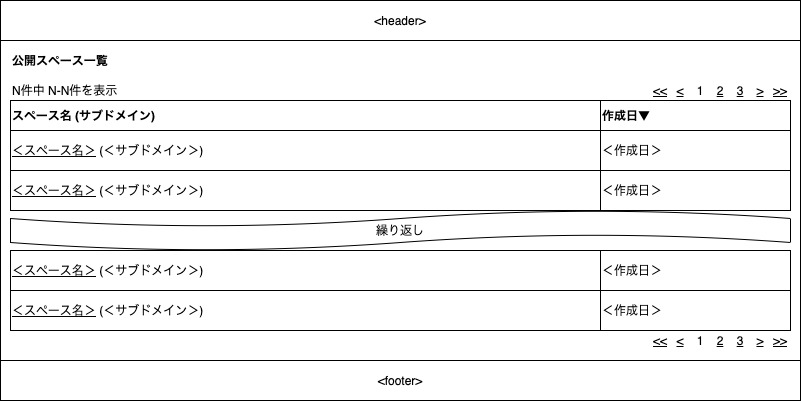
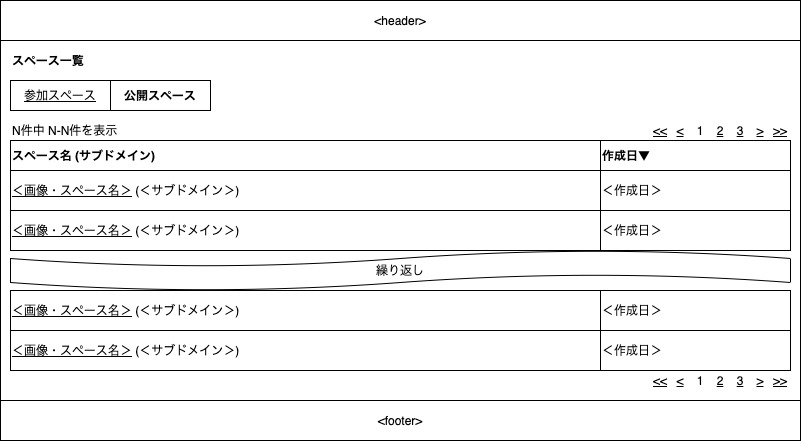
origin#336 公開スペース・テスト作成、参加スペース修正

diff --git a/spec/requests/spaces/index_public_spec.rb b/spec/requests/spaces/index_public_spec.rb
@@ -1,5 +1,237 @@
 require 'rails_helper'
 
 RSpec.describe 'Spaces', type: :request do
-  # TODO: Spec
+  # GET /spaces/public（ベースドメイン） 公開スペース一覧
+  # GET /spaces/public.json（ベースドメイン） 公開スペース一覧API
+  # 前提条件
+  #   なし
+  # テストパターン
+  #   未ログイン, ログイン中, ログイン中（削除予約済み） → データ＆状態作成
+  #   ベースドメイン, 存在するサブドメイン, 存在しないサブドメイン → 事前にデータ作成
+  describe 'GET /index_public' do
+    # テスト内容
+    shared_examples_for 'ToOK' do
+      it '成功ステータス' do
+        get public_spaces_path, headers: headers
+        expect(response).to be_successful
+      end
+      it '(json)成功ステータス' do
+        get public_spaces_path(format: :json), headers: headers
+        expect(response).to be_successful
+      end
+    end
+    shared_examples_for 'ToBase' do |alert, notice, error|
+      it 'ベースドメインにリダイレクト' do
+        get public_spaces_path, headers: headers
+        expect(response).to redirect_to("//#{Settings['base_domain']}#{public_spaces_path}")
+        expect(flash[:alert]).to alert.present? ? eq(I18n.t(alert)) : be_nil
+        expect(flash[:notice]).to notice.present? ? eq(I18n.t(notice)) : be_nil
+      end
+      it '(json)存在しないエラー' do
+        get public_spaces_path(format: :json), headers: headers
+        expect(response).to be_not_found
+        message = response.body.present? ? JSON.parse(response.body)['error'] : nil
+        expect(message).to error.present? ? eq(I18n.t(error)) : be_nil
+      end
+    end
+
+    # テストケース
+    shared_examples_for '[*]ベースドメイン' do
+      let!(:headers) { BASE_HEADER }
+      it_behaves_like 'ToOK'
+    end
+    shared_examples_for '[*]存在するサブドメイン' do
+      let!(:headers) { @space_header }
+      it_behaves_like 'ToBase', nil, nil, 'errors.messages.domain_error'
+    end
+    shared_examples_for '[*]存在しないサブドメイン' do
+      let!(:headers) { NOT_SPACE_HEADER }
+      it_behaves_like 'ToBase', nil, nil, 'errors.messages.domain_error'
+    end
+
+    context '未ログイン' do
+      it_behaves_like '[*]ベースドメイン'
+      it_behaves_like '[*]存在するサブドメイン'
+      it_behaves_like '[*]存在しないサブドメイン'
+    end
+    context 'ログイン中' do
+      include_context 'ログイン処理'
+      it_behaves_like '[*]ベースドメイン'
+      it_behaves_like '[*]存在するサブドメイン'
+      it_behaves_like '[*]存在しないサブドメイン'
+    end
+    context 'ログイン中（削除予約済み）' do
+      include_context 'ログイン処理', true
+      it_behaves_like '[*]ベースドメイン'
+      it_behaves_like '[*]存在するサブドメイン'
+      it_behaves_like '[*]存在しないサブドメイン'
+    end
+  end
+
+  # 公開スペース
+  # 前提条件
+  #   ベースドメイン, ログイン中/削除予約済み
+  # テストパターン
+  #   ログイン中, ログイン中（削除予約済み） → データ＆状態作成
+  #   公開スペース: ない, 最大表示数と同じ, 最大表示数より多い → データ作成
+  describe 'GET /index @spaces' do
+    let!(:headers) { BASE_HEADER }
+    include_context 'スペース作成', 1 # Tips: 非公開スペース
+
+    # テスト内容
+    shared_examples_for 'ページ情報' do |page|
+      it '(json)全件数が一致する' do
+        get public_spaces_path(page: page, format: :json), headers: headers
+        expect(JSON.parse(response.body)['public_space']['total_count']).to eq(@create_spaces.count)
+      end
+      it '(json)現在ページが一致する' do
+        get public_spaces_path(page: page, format: :json), headers: headers
+        expect(JSON.parse(response.body)['public_space']['current_page']).to eq(page)
+      end
+      it '(json)全ページ数が一致する' do
+        get public_spaces_path(page: page, format: :json), headers: headers
+        expect(JSON.parse(response.body)['public_space']['total_pages']).to eq((@create_spaces.count - 1).div(Settings['default_spaces_limit']) + 1)
+      end
+      it '(json)最大表示件数が一致する' do
+        get public_spaces_path(page: page, format: :json), headers: headers
+        expect(JSON.parse(response.body)['public_space']['limit_value']).to eq(Settings['default_spaces_limit'])
+      end
+    end
+
+    shared_examples_for 'ページネーション表示' do |page, link_page|
+      it 'パスが含まれる' do
+        get public_spaces_path(page: page), headers: headers
+        if link_page == 1
+          expect(response.body).to include("\"#{public_spaces_path}\"")
+        else
+          expect(response.body).to include("\"#{public_spaces_path(page: link_page)}\"")
+        end
+      end
+    end
+    shared_examples_for 'ページネーション非表示' do |page, link_page|
+      it 'パスが含まれない' do
+        get public_spaces_path(page: page), headers: headers
+        if link_page == 1
+          expect(response.body).not_to include("\"#{public_spaces_path}\"")
+        else
+          expect(response.body).not_to include("\"#{public_spaces_path(page: link_page)}\"")
+        end
+      end
+    end
+
+    shared_examples_for 'リスト表示' do |page|
+      let!(:start_no) { Settings['default_spaces_limit'] * (page - 1) + 1 }
+      let!(:end_no) { [@create_spaces.count, Settings['default_spaces_limit'] * page].min }
+      it '(json)配列の件数が一致する' do
+        get public_spaces_path(page: page, format: :json), headers: headers
+        expect(JSON.parse(response.body)['public_spaces'].count).to eq(end_no - start_no + 1)
+      end
+      it 'スペーストップのパスが含まれる' do
+        get public_spaces_path(page: page), headers: headers
+        (start_no..end_no).each do |no|
+          expect(response.body).to include("//#{@create_spaces[@create_spaces.count - no].subdomain}.#{Settings['base_domain']}")
+        end
+      end
+      it '(json)サブドメインが含まれる' do
+        get public_spaces_path(page: page, format: :json), headers: headers
+        parse_response = JSON.parse(response.body)['public_spaces']
+        (start_no..end_no).each do |no|
+          expect(parse_response[no - start_no]['subdomain']).to eq(@create_spaces[@create_spaces.count - no].subdomain)
+        end
+      end
+      it '画像URLが含まれる' do # Tips: ユニークではない為、正確ではない
+        get public_spaces_path(page: page), headers: headers
+        (start_no..end_no).each do |no|
+          expect(response.body).to include("\"#{@create_spaces[@create_spaces.count - no].image_url(:small)}\"")
+        end
+      end
+      it '(json)画像URLが一致する' do
+        get public_spaces_path(page: page, format: :json), headers: headers
+        parse_response = JSON.parse(response.body)['public_spaces']
+        (start_no..end_no).each do |no|
+          image_url = "https://#{Settings['base_domain']}#{@create_spaces[@create_spaces.count - no].image_url(:small)}"
+          expect(parse_response[no - start_no]['image_url']).to eq(image_url)
+        end
+      end
+      it 'スペース名が含まれる' do
+        get public_spaces_path(page: page), headers: headers
+        (start_no..end_no).each do |no|
+          expect(response.body).to include(@create_spaces[@create_spaces.count - no].name)
+        end
+      end
+      it '(json)スペース名が一致する' do
+        get public_spaces_path(page: page, format: :json), headers: headers
+        parse_response = JSON.parse(response.body)['public_spaces']
+        (start_no..end_no).each do |no|
+          expect(parse_response[no - start_no]['name']).to eq(@create_spaces[@create_spaces.count - no].name)
+        end
+      end
+      it '作成日が含まれる' do
+        get public_spaces_path(page: page), headers: headers
+        (start_no..end_no).each do |no|
+          expect(response.body).to include(I18n.l(@create_spaces[@create_spaces.count - no].created_at.to_date))
+        end
+      end
+      it '(json)作成日時が一致する' do
+        get public_spaces_path(page: page, format: :json), headers: headers
+        parse_response = JSON.parse(response.body)['public_spaces']
+        (start_no..end_no).each do |no|
+          expect(parse_response[no - start_no]['created_at']).to eq(I18n.l(@create_spaces[@create_spaces.count - no].created_at, format: :json))
+        end
+      end
+    end
+
+    shared_examples_for 'リダイレクト' do |page, redirect_page|
+      it '最終ページにリダイレクト' do
+        get public_spaces_path(page: page), headers: headers
+        if redirect_page == 1
+          expect(response).to redirect_to(public_spaces_path)
+        else
+          expect(response).to redirect_to(public_spaces_path(page: redirect_page))
+        end
+      end
+      it '(json)リダイレクトしない' do
+        get public_spaces_path(page: page, format: :json), headers: headers
+        expect(response).to be_successful
+      end
+    end
+
+    # テストケース
+    shared_examples_for '[ログイン中/削除予約済み]スペースがない' do
+      include_context 'スペース作成', 0, true
+      it_behaves_like 'ページ情報', 1
+      it_behaves_like 'ページネーション非表示', 1, 2
+      it_behaves_like 'リダイレクト', 2, 1
+    end
+    shared_examples_for '[ログイン中/削除予約済み]スペースが最大表示数と同じ' do
+      include_context 'スペース作成', Settings['public_spaces_limit'], true
+      it_behaves_like 'ページ情報', 1
+      it_behaves_like 'ページネーション非表示', 1, 2
+      it_behaves_like 'リスト表示', 1
+      it_behaves_like 'リダイレクト', 2, 1
+    end
+    shared_examples_for '[ログイン中/削除予約済み]スペースが最大表示数より多い' do
+      include_context 'スペース作成', Settings['public_spaces_limit'] + 1, true
+      it_behaves_like 'ページ情報', 1
+      it_behaves_like 'ページ情報', 2
+      it_behaves_like 'ページネーション表示', 1, 2
+      it_behaves_like 'ページネーション表示', 2, 1
+      it_behaves_like 'リスト表示', 1
+      it_behaves_like 'リスト表示', 2
+      it_behaves_like 'リダイレクト', 3, 2
+    end
+
+    context 'ログイン中' do
+      include_context 'ログイン処理'
+      it_behaves_like '[ログイン中/削除予約済み]スペースがない'
+      it_behaves_like '[ログイン中/削除予約済み]スペースが最大表示数と同じ'
+      it_behaves_like '[ログイン中/削除予約済み]スペースが最大表示数より多い'
+    end
+    context 'ログイン中（削除予約済み）' do
+      include_context 'ログイン処理', true
+      it_behaves_like '[ログイン中/削除予約済み]スペースがない'
+      it_behaves_like '[ログイン中/削除予約済み]スペースが最大表示数と同じ'
+      it_behaves_like '[ログイン中/削除予約済み]スペースが最大表示数より多い'
+    end
+  end
 end

diff --git a/spec/requests/spaces/index_spec.rb b/spec/requests/spaces/index_spec.rb
@@ -101,19 +101,19 @@ RSpec.describe 'Spaces', type: :request do
     shared_examples_for 'ページ情報' do |page|
       it '(json)全件数が一致する' do
         get spaces_path(page: page, format: :json), headers: headers
-        expect(JSON.parse(response.body)['space']['total_count']).to eq(@create_spaces.count)
+        expect(JSON.parse(response.body)['join_space']['total_count']).to eq(@create_spaces.count)
       end
       it '(json)現在ページが一致する' do
         get spaces_path(page: page, format: :json), headers: headers
-        expect(JSON.parse(response.body)['space']['current_page']).to eq(page)
+        expect(JSON.parse(response.body)['join_space']['current_page']).to eq(page)
       end
       it '(json)全ページ数が一致する' do
         get spaces_path(page: page, format: :json), headers: headers
-        expect(JSON.parse(response.body)['space']['total_pages']).to eq((@create_spaces.count - 1).div(Settings['default_spaces_limit']) + 1)
+        expect(JSON.parse(response.body)['join_space']['total_pages']).to eq((@create_spaces.count - 1).div(Settings['default_spaces_limit']) + 1)
       end
       it '(json)最大表示件数が一致する' do
         get spaces_path(page: page, format: :json), headers: headers
-        expect(JSON.parse(response.body)['space']['limit_value']).to eq(Settings['default_spaces_limit'])
+        expect(JSON.parse(response.body)['join_space']['limit_value']).to eq(Settings['default_spaces_limit'])
       end
       it 'スペース作成のパスが含まれる' do
         get spaces_path(page: page), headers: headers
@@ -147,7 +147,7 @@ RSpec.describe 'Spaces', type: :request do
       let!(:end_no) { [@create_spaces.count, Settings['default_spaces_limit'] * page].min }
       it '(json)配列の件数が一致する' do
         get spaces_path(page: page, format: :json), headers: headers
-        expect(JSON.parse(response.body)['spaces'].count).to eq(end_no - start_no + 1)
+        expect(JSON.parse(response.body)['join_spaces'].count).to eq(end_no - start_no + 1)
       end
       it 'スペーストップのパスが含まれる' do
         get spaces_path(page: page), headers: headers
@@ -157,7 +157,7 @@ RSpec.describe 'Spaces', type: :request do
       end
       it '(json)サブドメインが含まれる' do
         get spaces_path(page: page, format: :json), headers: headers
-        parse_response = JSON.parse(response.body)['spaces']
+        parse_response = JSON.parse(response.body)['join_spaces']
         (start_no..end_no).each do |no|
           expect(parse_response[no - start_no]['subdomain']).to eq(@create_spaces[no - 1].subdomain)
         end
@@ -170,7 +170,7 @@ RSpec.describe 'Spaces', type: :request do
       end
       it '(json)画像URLが一致する' do
         get spaces_path(page: page, format: :json), headers: headers
-        parse_response = JSON.parse(response.body)['spaces']
+        parse_response = JSON.parse(response.body)['join_spaces']
         (start_no..end_no).each do |no|
           expect(parse_response[no - start_no]['image_url']).to eq("https://#{Settings['base_domain']}#{@create_spaces[no - 1].image_url(:small)}")
         end
@@ -183,14 +183,14 @@ RSpec.describe 'Spaces', type: :request do
       end
       it '(json)スペース名が一致する' do
         get spaces_path(page: page, format: :json), headers: headers
-        parse_response = JSON.parse(response.body)['spaces']
+        parse_response = JSON.parse(response.body)['join_spaces']
         (start_no..end_no).each do |no|
           expect(parse_response[no - start_no]['name']).to eq(@create_spaces[no - 1].name)
         end
       end
       it '(json)公開フラグが一致する' do
         get spaces_path(page: page, format: :json), headers: headers
-        parse_response = JSON.parse(response.body)['spaces']
+        parse_response = JSON.parse(response.body)['join_spaces']
         (start_no..end_no).each do |no|
           expect(parse_response[no - start_no]['public_flag']).to eq(@create_spaces[no - 1].public_flag)
         end
@@ -203,7 +203,7 @@ RSpec.describe 'Spaces', type: :request do
       end
       it '(json)作成日時が一致する' do
         get spaces_path(page: page, format: :json), headers: headers
-        parse_response = JSON.parse(response.body)['spaces']
+        parse_response = JSON.parse(response.body)['join_spaces']
         (start_no..end_no).each do |no|
           expect(parse_response[no - start_no]['created_at']).to eq(I18n.l(@create_spaces[no - 1].created_at, format: :json))
         end
@@ -214,9 +214,15 @@ RSpec.describe 'Spaces', type: :request do
           expect(response.body).to include("\"#{customer_path(@create_spaces[no - 1].customer.code)}\"")
         end
       end
+      it '顧客コードが含まれる' do # Tips: 顧客詳細のパスに含まれる為、正確ではない
+        get spaces_path(page: page), headers: headers
+        (start_no..end_no).each do |no|
+          expect(response.body).to include(@create_spaces[no - 1].customer.code)
+        end
+      end
       it '(json)顧客コードが一致する' do
         get spaces_path(page: page, format: :json), headers: headers
-        parse_response = JSON.parse(response.body)['spaces']
+        parse_response = JSON.parse(response.body)['join_spaces']
         (start_no..end_no).each do |no|
           expect(parse_response[no - start_no]['customer']['code']).to eq(@create_spaces[no - 1].customer.code)
         end
@@ -229,7 +235,7 @@ RSpec.describe 'Spaces', type: :request do
       end
       it '(json)組織・団体名が一致する' do
         get spaces_path(page: page, format: :json), headers: headers
-        parse_response = JSON.parse(response.body)['spaces']
+        parse_response = JSON.parse(response.body)['join_spaces']
         (start_no..end_no).each do |no|
           expect(parse_response[no - start_no]['customer']['name']).to eq(@create_spaces[no - 1].customer.name)
         end

diff --git a/app/controllers/spaces_controller.rb b/app/controllers/spaces_controller.rb
@@ -1,6 +1,6 @@
 class SpacesController < ApplicationController
-  before_action :not_found_json_sub_domain_response, only: %i[index create]
-  before_action :redirect_base_domain_response, only: %i[index new]
+  before_action :not_found_json_sub_domain_response, only: %i[index index_public create]
+  before_action :redirect_base_domain_response, only: %i[index index_public new]
   before_action :not_found_base_domain_response, only: %i[edit update]
   before_action :not_found_sub_domain_response, only: %i[create]
   before_action :authenticate_user!, only: %i[index new edit create update]
@@ -15,8 +15,14 @@ class SpacesController < ApplicationController
     redirect_to @spaces.total_pages <= 1 ? spaces_path : spaces_path(page: @spaces.total_pages)
   end
 
+  # GET /spaces/public（ベースドメイン） 公開スペース一覧
+  # GET /spaces/public.json（ベースドメイン） 公開スペース一覧API
   def index_public
-    # TODO
+    @spaces = Space.order(created_at: 'DESC', id: 'DESC').page(params[:page]).per(Settings['default_spaces_limit'])
+                   .where(public_flag: true)
+    return if request.format.json? || @spaces.current_page <= [@spaces.total_pages, 1].max
+
+    redirect_to @spaces.total_pages <= 1 ? public_spaces_path : public_spaces_path(page: @spaces.total_pages)
   end
 
   # GET /spaces/new（ベースドメイン） スペース作成
